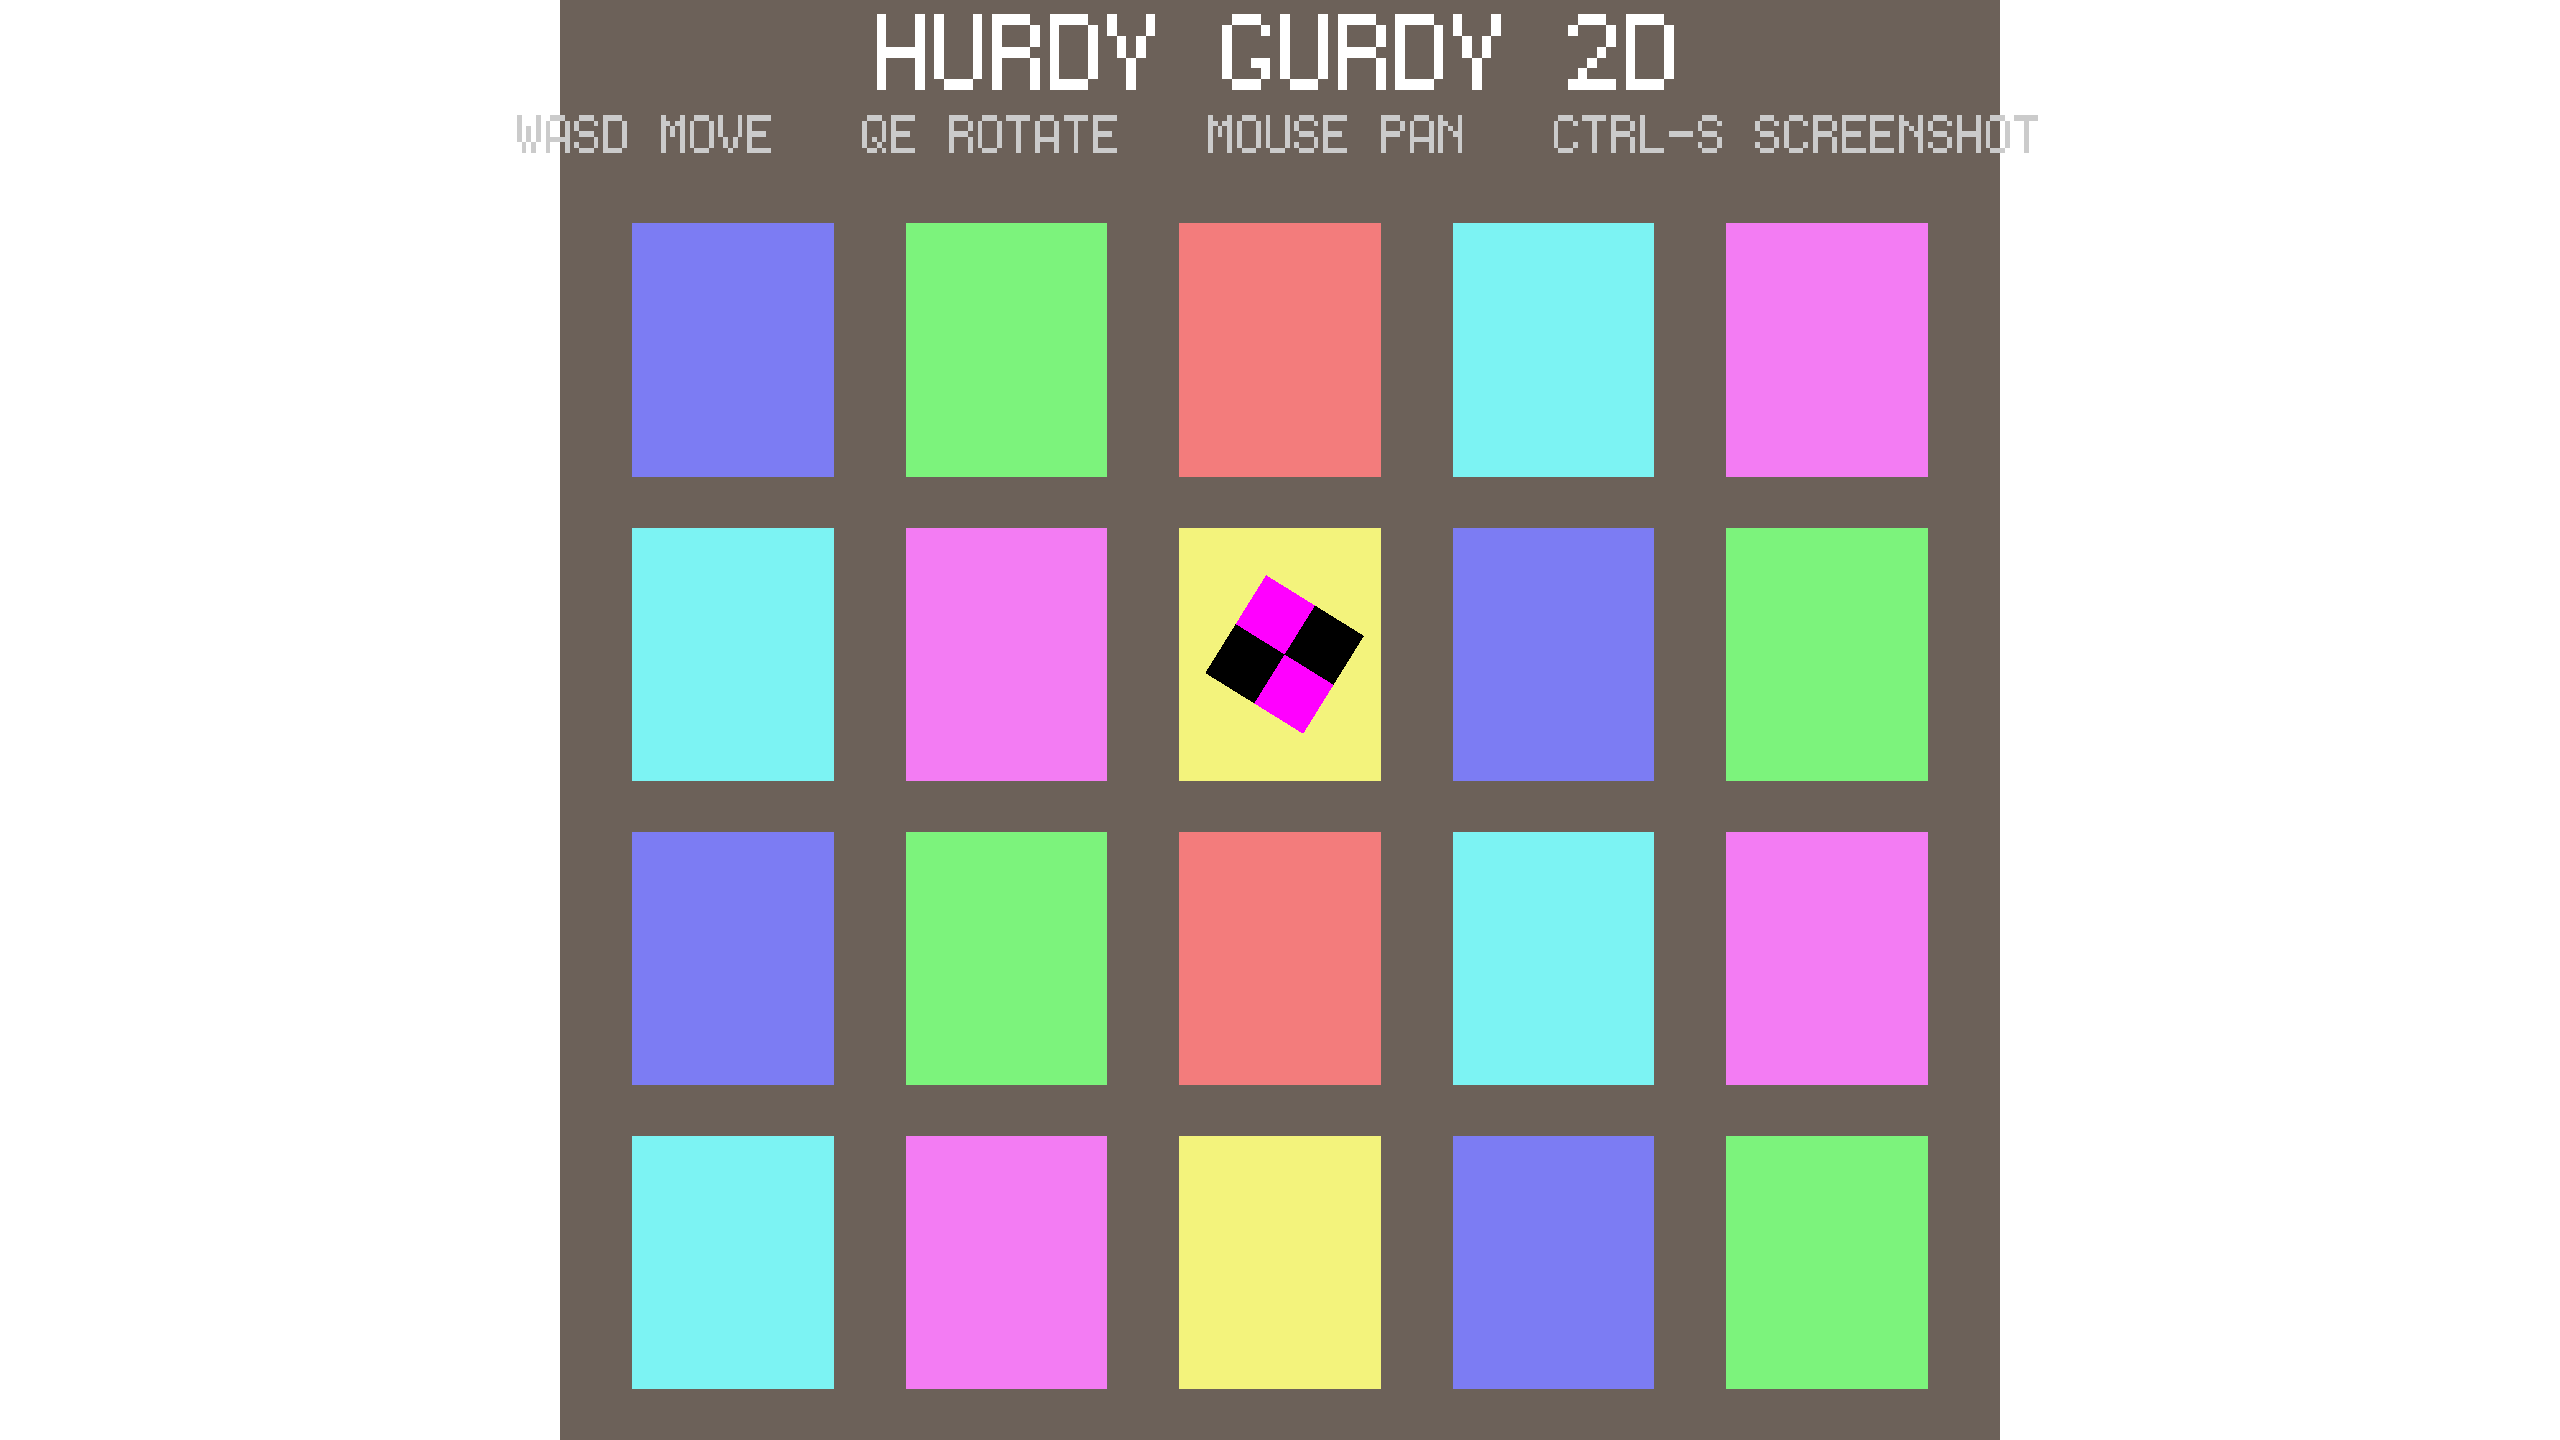
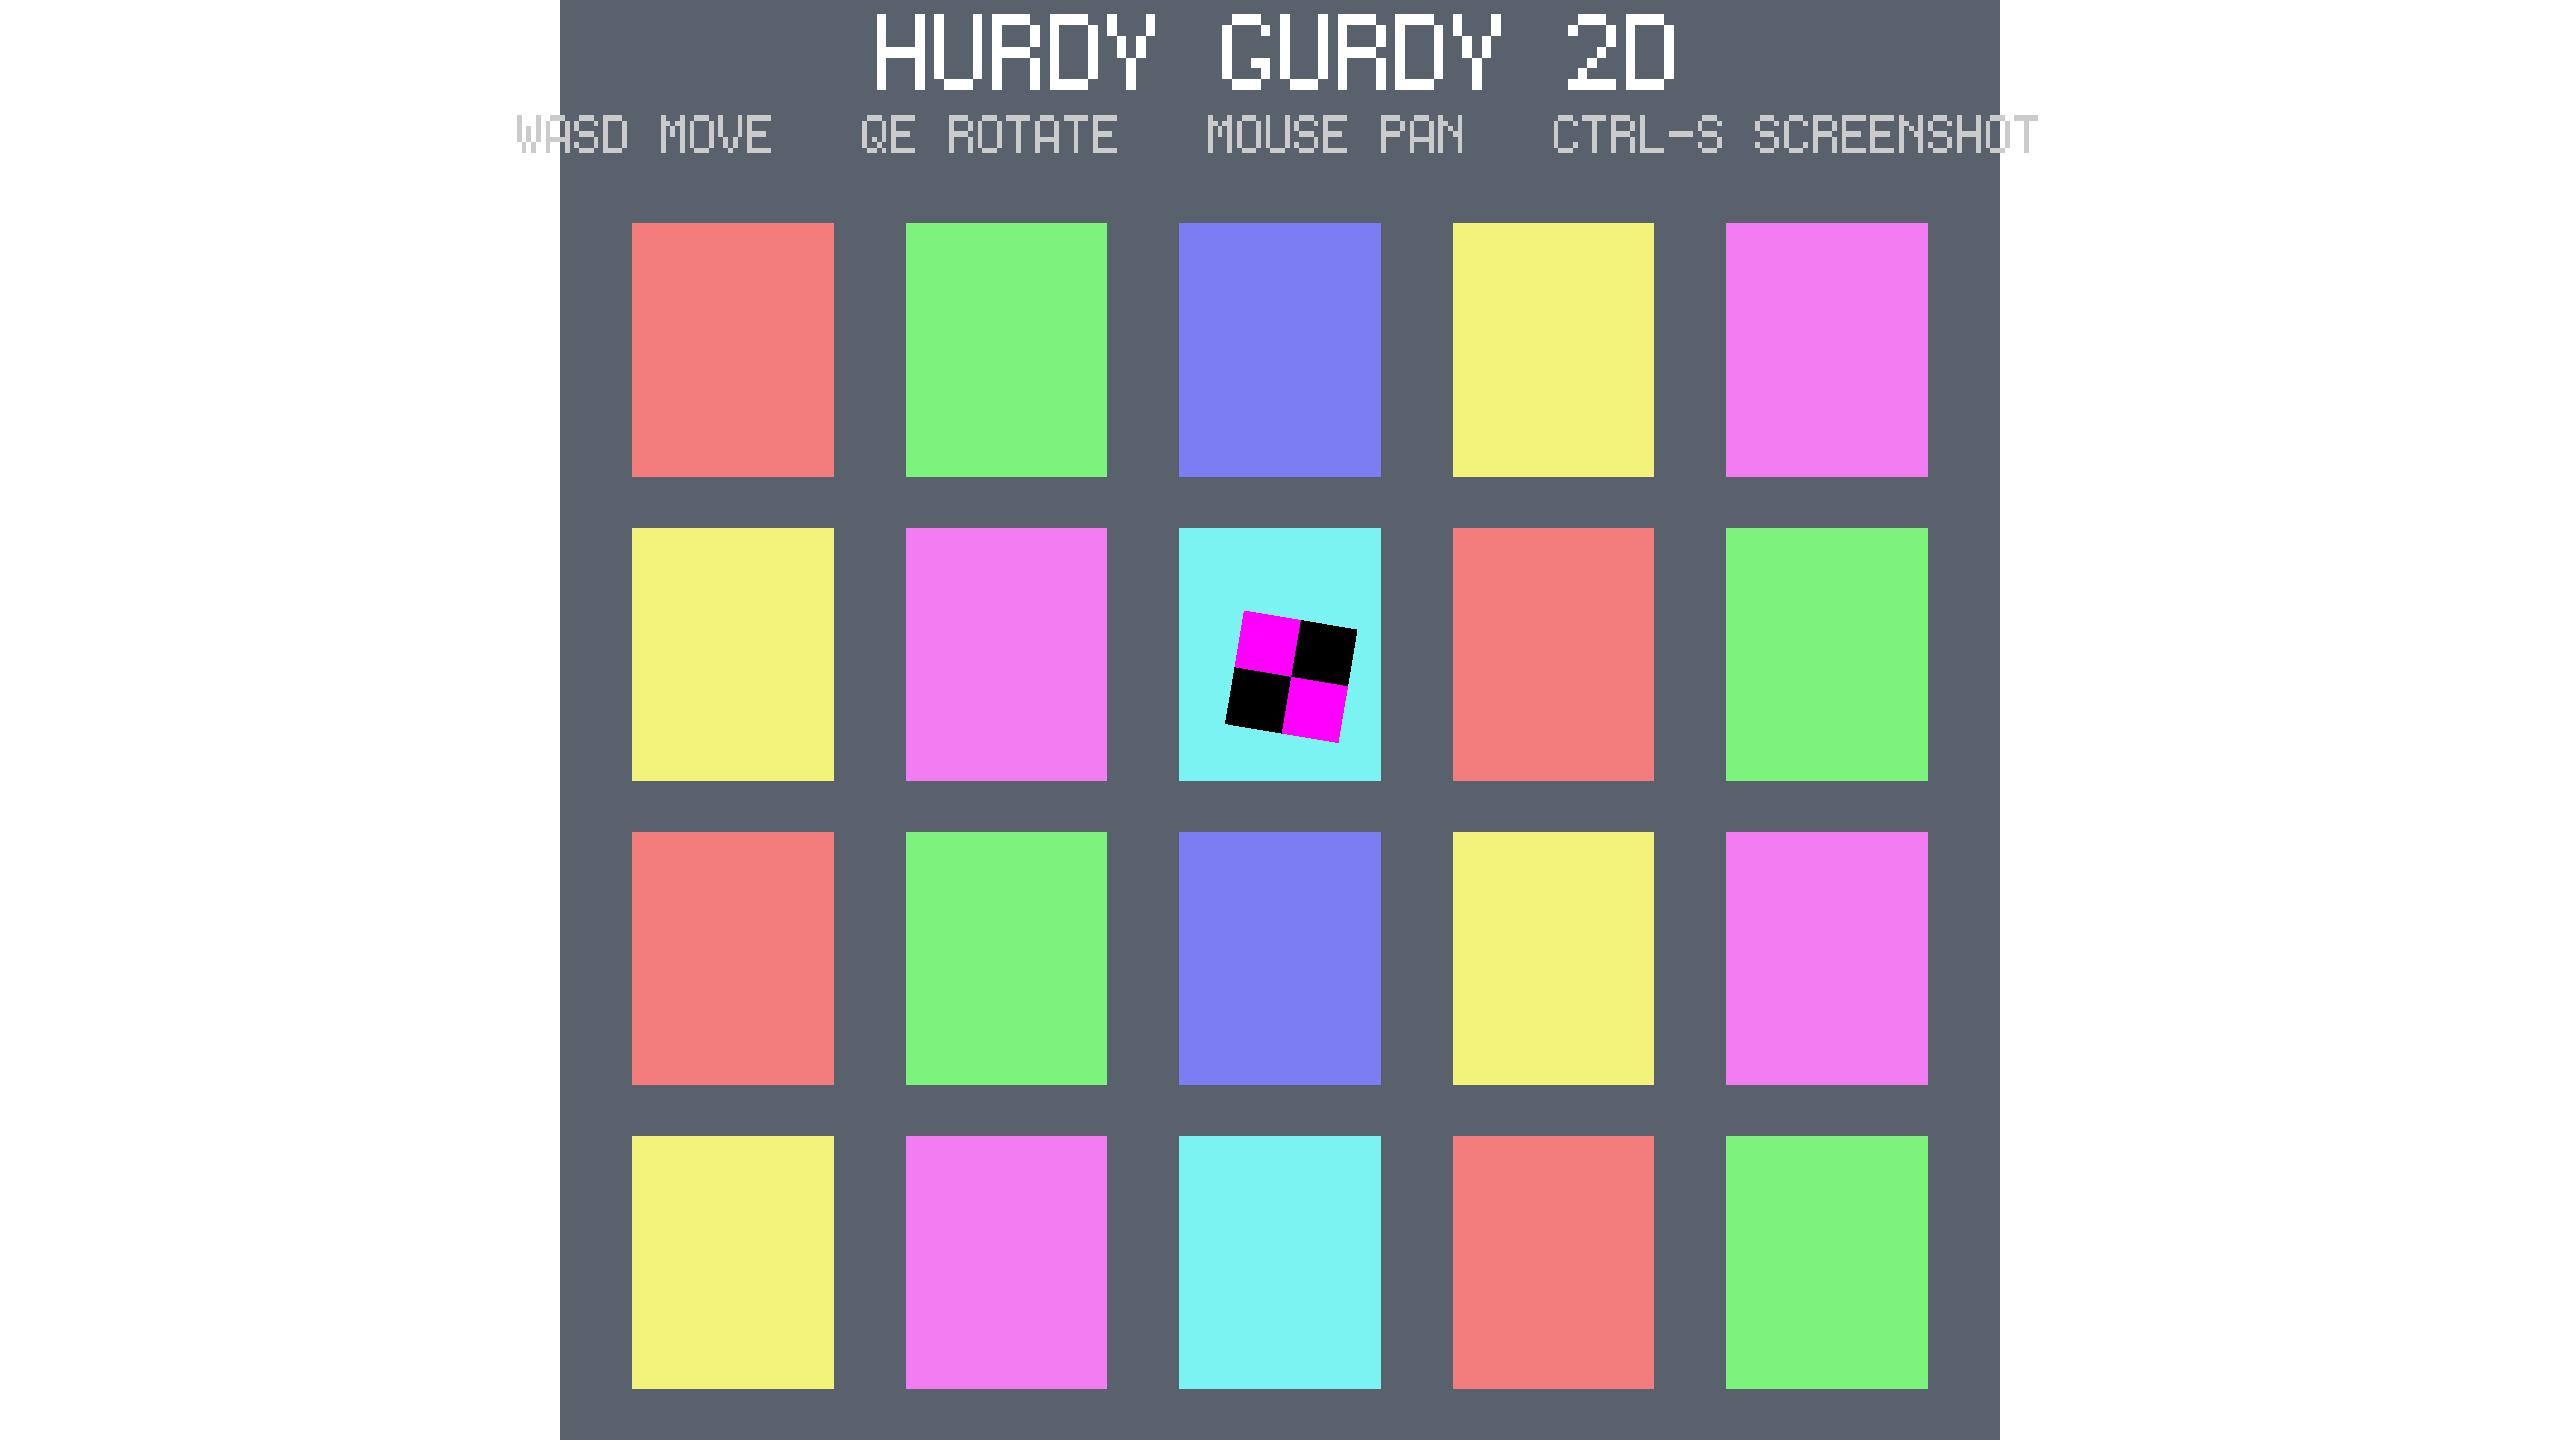
fixed screenshot discoloration

Changed region(s): [[0.4375, 0.1562, 0.6562, 0.9688], [0.25, 0.1562, 0.3438, 0.9688]]

diff --git a/src/example3d.cpp b/src/example3d.cpp
@@ -157,8 +157,8 @@ int main()
         if (movement != Vec3{0.0f})
         {
             f32 moveSpeed = 1.5f * static_cast<f32>(delta);
-            movement = rotate(camera.rotation, {movement.x(), 0.0f, movement.z()}) + Vec3{0.0f, movement.y(), 0.0f};
-            camera.position += normalize(movement) * moveSpeed;
+            Vec3 rotated = rotate(camera.rotation, {movement.x(), 0.0f, movement.z()});;
+            camera.position += normalize(Vec3{rotated.x(), movement.y(), rotated.z()}) * moveSpeed;
         }
 
         modelRot += static_cast<f32>(delta) * 0.5f;
@@ -226,13 +226,11 @@ int main()
                     || shot.image.height() != renderTarget->height()
                     || shot.view.format() != renderTarget->format())
                 {
-                    shot.image = GpuImage::create(renderTarget->width(), renderTarget->height(),
-                        renderTarget->format(),
-                        GpuImageUsage_colorAttachment | GpuImageUsage_transferDst
-                            | GpuImageUsage_transferSrc);
+                    shot.image = GpuImage::create(renderTarget->width(), renderTarget->height(), Format_rgba8_srgb,
+                        GpuImageUsage_sampled | GpuImageUsage_transferDst | GpuImageUsage_transferSrc);
                     shot.view = GpuView::create(shot.image, GpuAspect_color);
                 }
-                gpuCopyImageWhole(cmd, shot.view, *renderTarget);
+                gpuBlitImageWhole(cmd, shot.view, *renderTarget);
                 shotPending = true;
             }
         }

diff --git a/src/example2d.cpp b/src/example2d.cpp
@@ -182,13 +182,11 @@ int main()
                     || shot.image.height() != renderTarget->height()
                     || shot.view.format() != renderTarget->format())
                 {
-                    shot.image = GpuImage::create(renderTarget->width(), renderTarget->height(),
-                        renderTarget->format(),
-                        GpuImageUsage_colorAttachment | GpuImageUsage_transferDst
-                            | GpuImageUsage_transferSrc);
+                    shot.image = GpuImage::create(renderTarget->width(), renderTarget->height(), Format_rgba8_srgb,
+                        GpuImageUsage_sampled | GpuImageUsage_transferDst | GpuImageUsage_transferSrc);
                     shot.view = GpuView::create(shot.image, GpuAspect_color);
                 }
-                gpuCopyImageWhole(cmd, shot.view, *renderTarget);
+                gpuBlitImageWhole(cmd, shot.view, *renderTarget);
                 shotPending = true;
             }
         }
